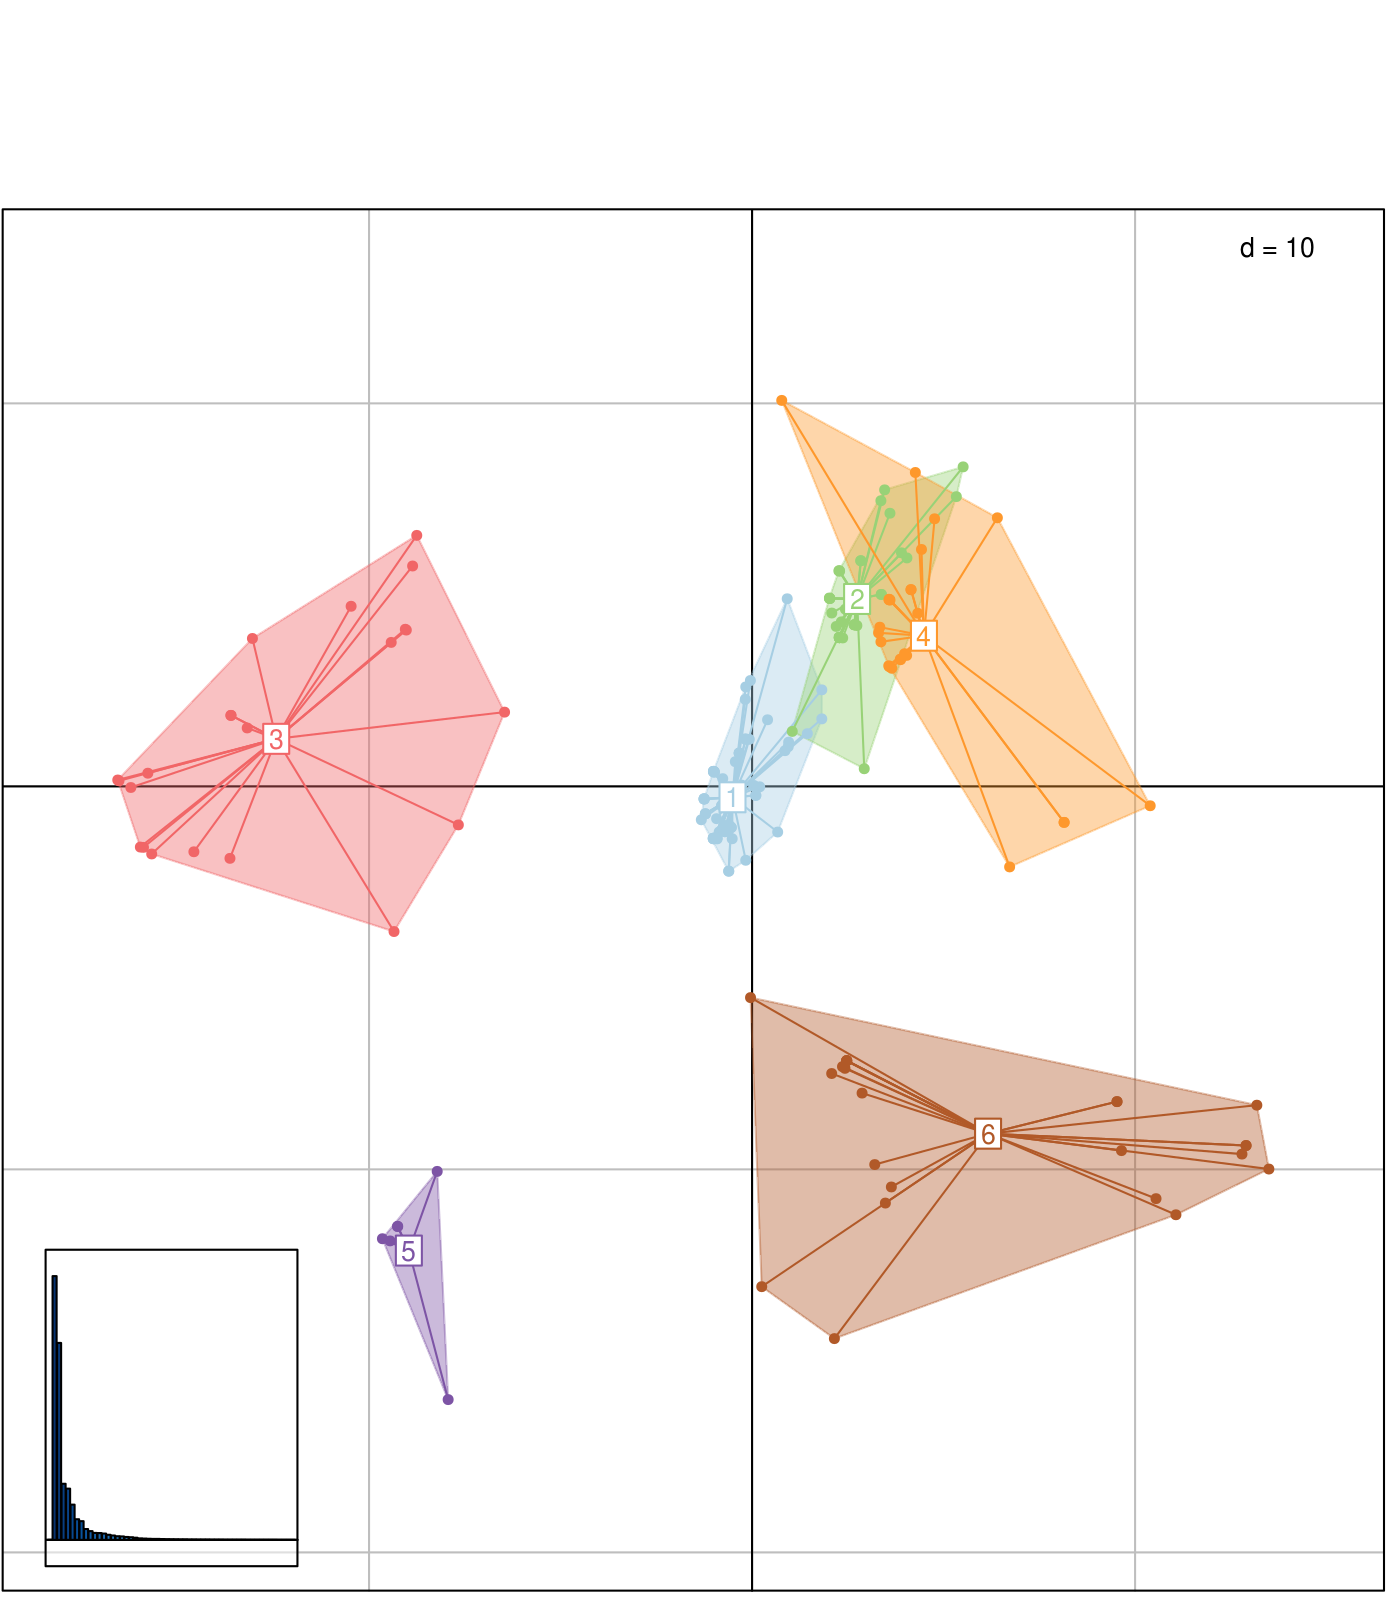
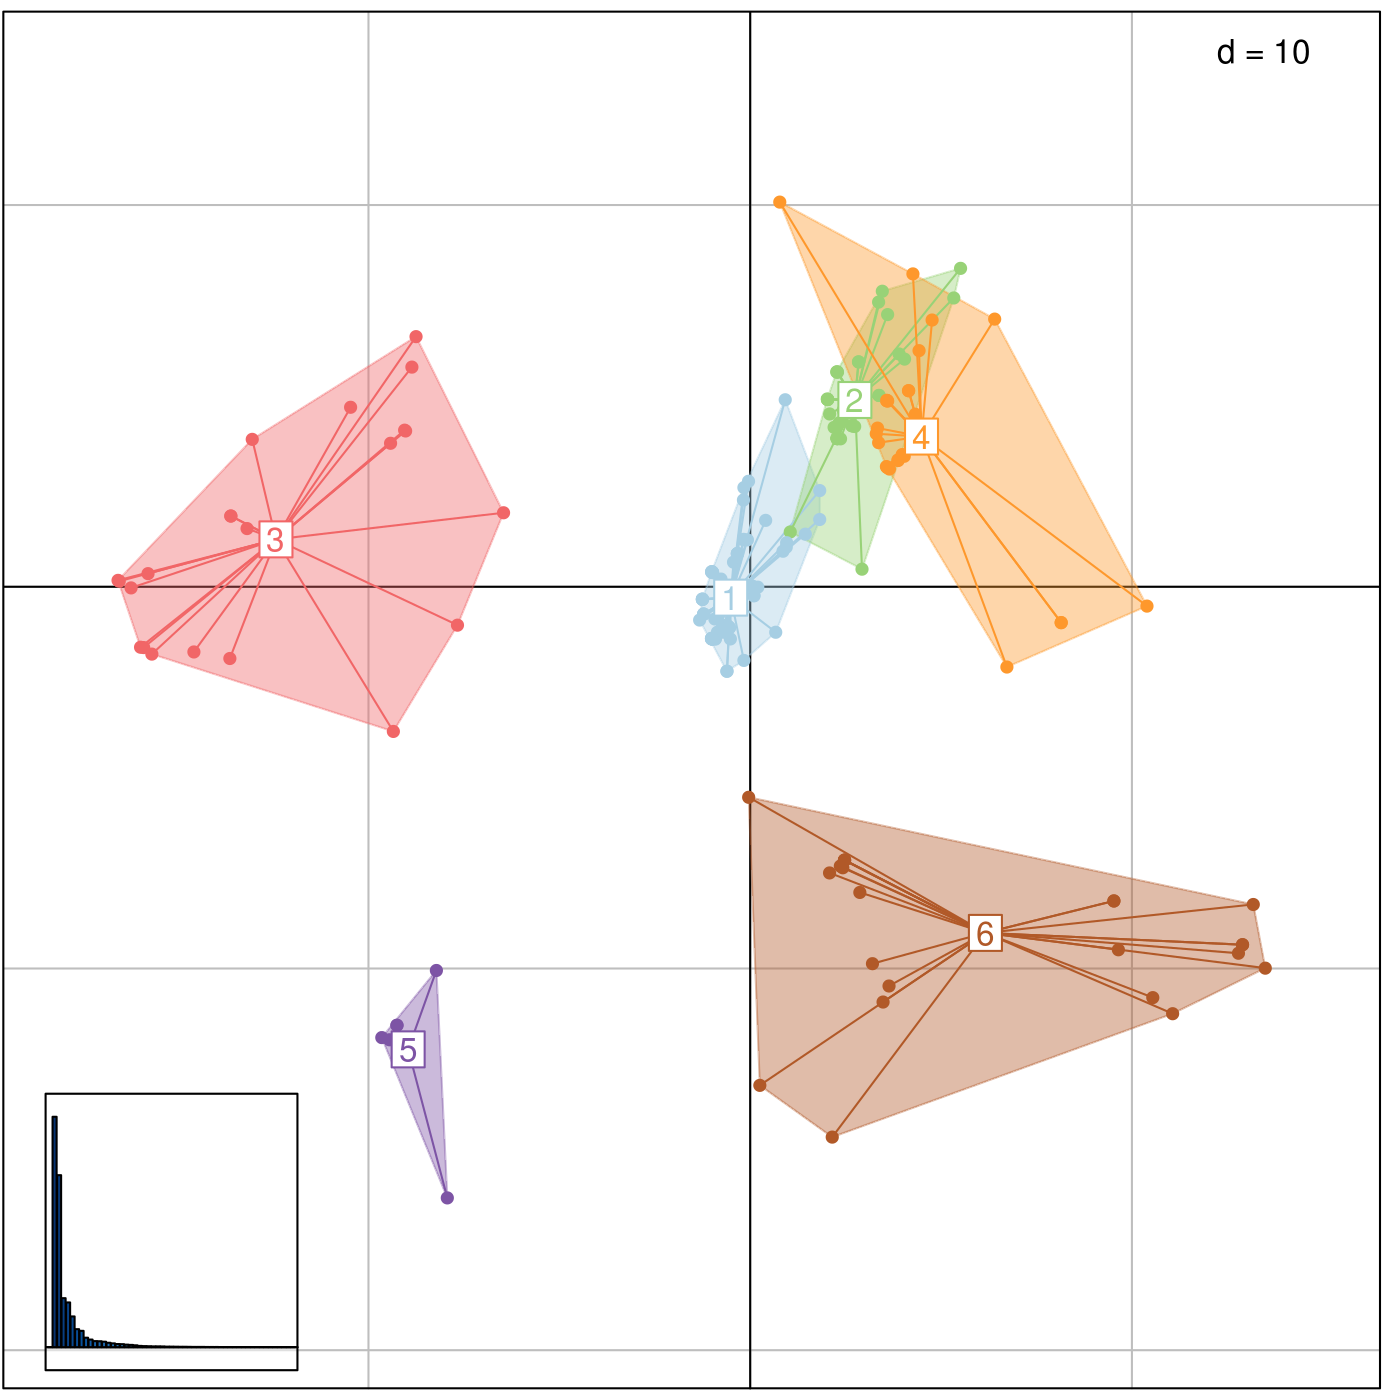
polishing vignette

diff --git a/README.md b/README.md
@@ -300,14 +300,13 @@ plotGroves(wm.groves, type="ellipse")
 plotGroves(wm.groves, xax=2, yax=3)
 ```
 
-<img src="vignettes/figs/plotgroves-3.png" title="plot of chunk plotgroves" alt="plot of chunk plotgroves" width="400px" />
+<img src="vignettes/figs/plotgroves2-1.png" title="plot of chunk plotgroves2" alt="plot of chunk plotgroves2" width="400px" />
 
-```r
+
 ## customize graphics
 plotGroves(wm.groves, bg="black", col.pal=lightseasun, lab.show=TRUE, lab.col="white", lab.cex=1.5)
-```
 
-<img src="vignettes/figs/plotgroves-4.png" title="plot of chunk plotgroves" alt="plot of chunk plotgroves" width="400px" /><img src="vignettes/figs/plotgroves-5.png" title="plot of chunk plotgroves" alt="plot of chunk plotgroves" width="400px" />
+```
 
 
 
@@ -367,7 +366,7 @@ par(mfrow=c(2,3))
 for(i in 1:length(med.trees)) plot(med.trees[[i]], main=paste("cluster",i))
 ```
 
-<img src="vignettes/figs/woodmiceCluster1-1.png" title="plot of chunk woodmiceCluster1" alt="plot of chunk woodmiceCluster1" width="400px" />
+<img src="vignettes/figs/woodmiceCluster1-1.png" title="plot of chunk woodmiceCluster1" alt="plot of chunk woodmiceCluster1" width="600px" />
 
 These trees exhibit a number of topological differences, e.g. in the placement of the **(1007S,1208S,0909S)** clade. 
 Performing this analysis enables the detection of distinct representative trees supported by data.
@@ -398,7 +397,7 @@ treeVec(tree)
 ```
 
 ```
-##  [1] 1 1 1 0 0 2 3 0 0 2 0 0 0 0 1 1 1 1 1 1 1
+##  [1] 1 1 0 2 0 2 0 1 0 0 1 0 0 1 0 1 1 1 1 1 1
 ```
 
 ```r
@@ -407,9 +406,9 @@ treeVec(tree,0.5)
 ```
 
 ```
-##  [1] 0.7473 0.7473 0.7473 0.0000 0.0000 1.3366 2.2140 0.0000 0.0000 1.3366
-## [11] 0.0000 0.0000 0.0000 0.0000 0.8248 0.5023 0.6922 0.7611 0.9299 0.9121
-## [21] 0.9191
+##  [1] 0.6775 0.6775 0.0000 1.3465 0.0000 1.3670 0.0000 0.6775 0.0000 0.0000
+## [11] 0.6775 0.0000 0.0000 0.9442 0.0000 0.6646 0.8074 0.7531 0.5180 0.7866
+## [21] 0.5690
 ```
 
 ```r
@@ -420,9 +419,9 @@ vecAsFunction(0.5)
 ```
 
 ```
-##  [1] 0.7473 0.7473 0.7473 0.0000 0.0000 1.3366 2.2140 0.0000 0.0000 1.3366
-## [11] 0.0000 0.0000 0.0000 0.0000 0.8248 0.5023 0.6922 0.7611 0.9299 0.9121
-## [21] 0.9191
+##  [1] 0.6775 0.6775 0.0000 1.3465 0.0000 1.3670 0.0000 0.6775 0.0000 0.0000
+## [11] 0.6775 0.0000 0.0000 0.9442 0.0000 0.6646 0.8074 0.7531 0.5180 0.7866
+## [21] 0.5690
 ```
 
 The metric -- the distance between two trees -- is the Euclidean distance between these vectors:
@@ -442,7 +441,7 @@ treeDist(tree_a,tree_b)
 ```
 
 ```
-## [1] 5.196
+## [1] 5.477
 ```
 
 ```r
@@ -451,7 +450,7 @@ treeDist(tree_a,tree_b,1)
 ```
 
 ```
-## [1] 2.197
+## [1] 3.149
 ```
 
 

diff --git a/vignettes/treescape.md b/vignettes/treescape.md
@@ -309,14 +309,13 @@ plotGroves(wm.groves, type="ellipse")
 plotGroves(wm.groves, xax=2, yax=3)
 ```
 
-<img src="figs/plotgroves-3.png" title="plot of chunk plotgroves" alt="plot of chunk plotgroves" width="400px" />
+<img src="figs/plotgroves2-1.png" title="plot of chunk plotgroves2" alt="plot of chunk plotgroves2" width="400px" />
 
-```r
+
 ## customize graphics
 plotGroves(wm.groves, bg="black", col.pal=lightseasun, lab.show=TRUE, lab.col="white", lab.cex=1.5)
-```
 
-<img src="figs/plotgroves-4.png" title="plot of chunk plotgroves" alt="plot of chunk plotgroves" width="400px" /><img src="figs/plotgroves-5.png" title="plot of chunk plotgroves" alt="plot of chunk plotgroves" width="400px" />
+```
 
 
 
@@ -377,7 +376,7 @@ par(mfrow=c(2,3))
 for(i in 1:length(med.trees)) plot(med.trees[[i]], main=paste("cluster",i))
 ```
 
-<img src="figs/woodmiceCluster1-1.png" title="plot of chunk woodmiceCluster1" alt="plot of chunk woodmiceCluster1" width="400px" />
+<img src="figs/woodmiceCluster1-1.png" title="plot of chunk woodmiceCluster1" alt="plot of chunk woodmiceCluster1" width="600px" />
 
 These trees exhibit a number of topological differences, e.g. in the placement of the **(1007S,1208S,0909S)** clade. 
 Performing this analysis enables the detection of distinct representative trees supported by data.
@@ -408,7 +407,7 @@ treeVec(tree)
 ```
 
 ```
-##  [1] 1 1 1 0 0 2 3 0 0 2 0 0 0 0 1 1 1 1 1 1 1
+##  [1] 1 1 0 2 0 2 0 1 0 0 1 0 0 1 0 1 1 1 1 1 1
 ```
 
 ```r
@@ -417,9 +416,9 @@ treeVec(tree,0.5)
 ```
 
 ```
-##  [1] 0.7473 0.7473 0.7473 0.0000 0.0000 1.3366 2.2140 0.0000 0.0000 1.3366
-## [11] 0.0000 0.0000 0.0000 0.0000 0.8248 0.5023 0.6922 0.7611 0.9299 0.9121
-## [21] 0.9191
+##  [1] 0.6775 0.6775 0.0000 1.3465 0.0000 1.3670 0.0000 0.6775 0.0000 0.0000
+## [11] 0.6775 0.0000 0.0000 0.9442 0.0000 0.6646 0.8074 0.7531 0.5180 0.7866
+## [21] 0.5690
 ```
 
 ```r
@@ -430,9 +429,9 @@ vecAsFunction(0.5)
 ```
 
 ```
-##  [1] 0.7473 0.7473 0.7473 0.0000 0.0000 1.3366 2.2140 0.0000 0.0000 1.3366
-## [11] 0.0000 0.0000 0.0000 0.0000 0.8248 0.5023 0.6922 0.7611 0.9299 0.9121
-## [21] 0.9191
+##  [1] 0.6775 0.6775 0.0000 1.3465 0.0000 1.3670 0.0000 0.6775 0.0000 0.0000
+## [11] 0.6775 0.0000 0.0000 0.9442 0.0000 0.6646 0.8074 0.7531 0.5180 0.7866
+## [21] 0.5690
 ```
 
 The metric -- the distance between two trees -- is the Euclidean distance between these vectors:
@@ -452,7 +451,7 @@ treeDist(tree_a,tree_b)
 ```
 
 ```
-## [1] 5.196
+## [1] 5.477
 ```
 
 ```r
@@ -461,7 +460,7 @@ treeDist(tree_a,tree_b,1)
 ```
 
 ```
-## [1] 2.197
+## [1] 3.149
 ```
 
 
